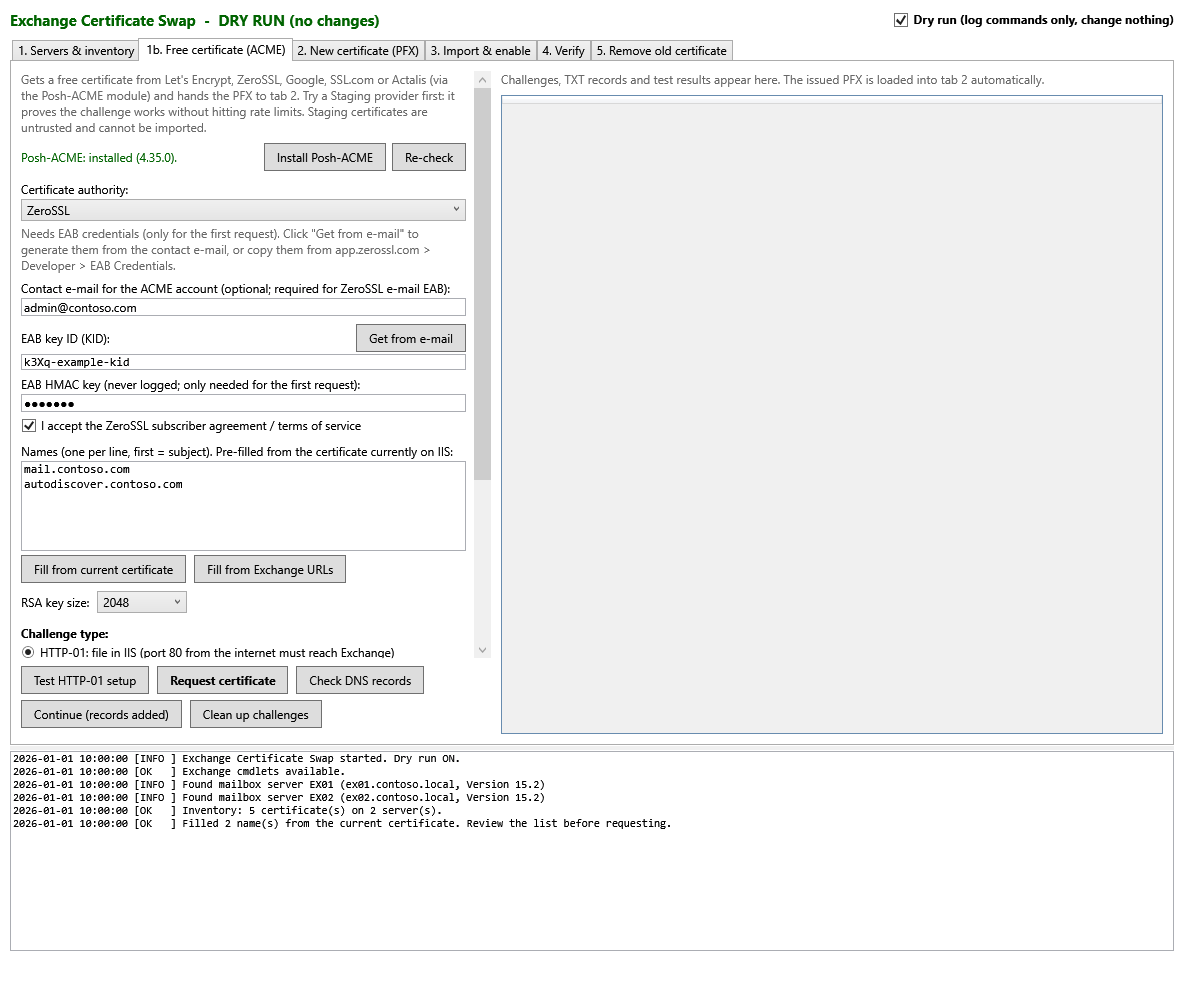
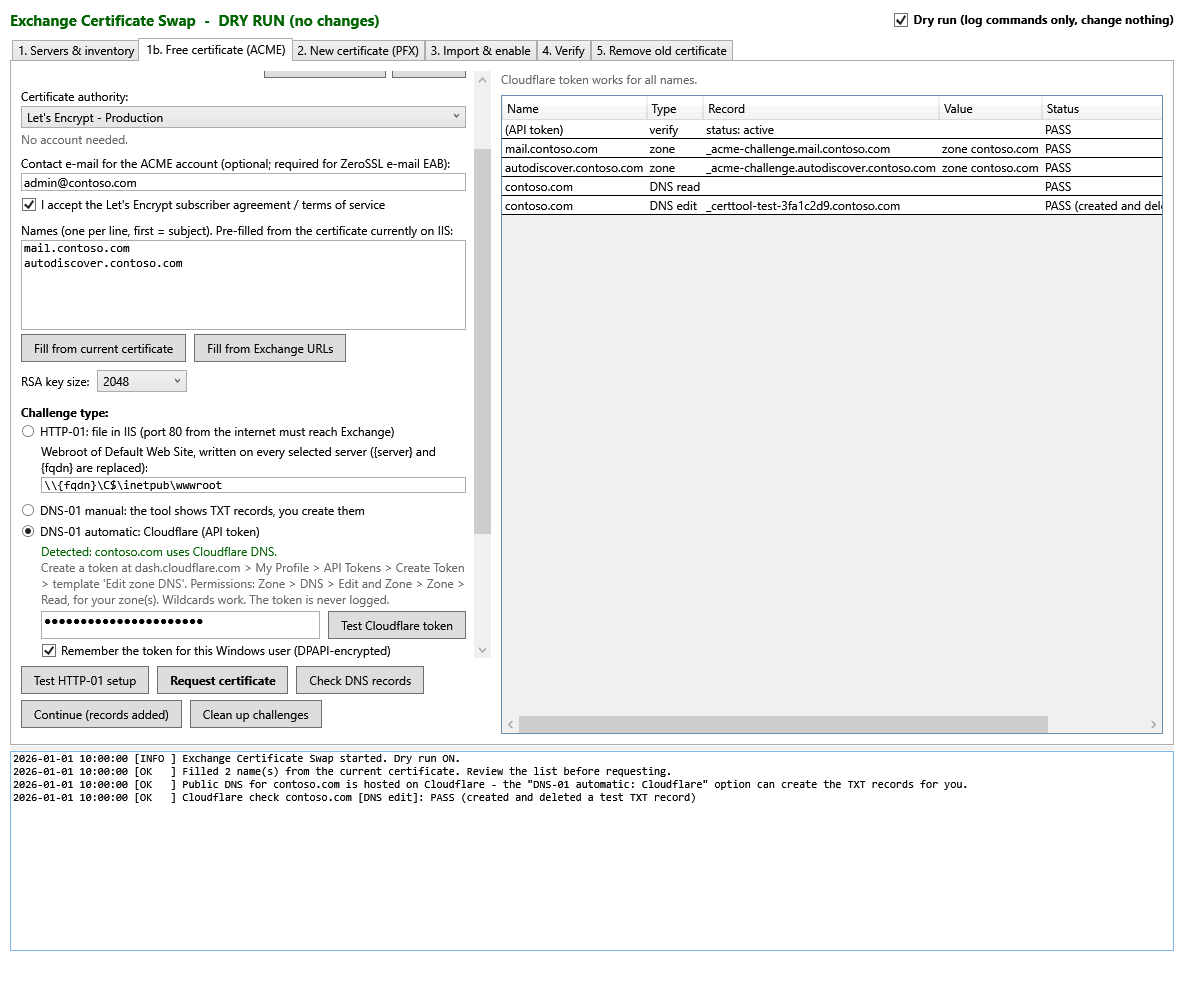
Add built-in Cloudflare DNS-01: API token test (zone/read/write), pre-flight check, DPAPI-remembered token, Cloudflare DNS detection

diff --git a/README.md b/README.md
@@ -9,7 +9,8 @@ A single-file PowerShell **WPF GUI** for replacing the public IIS/SMTP certifica
 - **Free certificates (optional)**: requests a certificate from **Let's Encrypt, ZeroSSL, Google Trust Services, SSL.com or Actalis** using the [Posh-ACME](https://poshac.me) module, and passes the resulting PFX straight to validation. Proof of domain ownership, chosen per request:
   - **HTTP-01**: the tool writes the challenge file into IIS on **every** selected server, so it works behind a load balancer. It checks that each server serves the file before the CA is asked to validate.
   - **DNS-01 manual**: the tool shows the `_acme-challenge` TXT records to create, then checks public DNS before continuing. Supports wildcards.
-  - **DNS-01 automatic**: uses any of Posh-ACME's ~90 DNS provider plugins (Cloudflare, Route 53, Azure DNS, GoDaddy and more).
+  - **DNS-01 automatic via Cloudflare**: built-in option for domains hosted on Cloudflare DNS. You paste a scoped API token, and the tool tests it, creates and removes the TXT records itself, and can remember the token, encrypted for your Windows user. It also detects when your names are on Cloudflare DNS.
+  - **DNS-01 automatic via other DNS hosts**: uses any of Posh-ACME's ~90 DNS provider plugins (Route 53, Azure DNS, GoDaddy and more).
 - **Inventory**: lists every Exchange certificate on all selected mailbox servers and marks the **Auth (OAuth)** and **internal transport** certificates.
 - **Validation before changes (read-only)**:
   - the PFX contains a private key, is in its validity period and has the Server Authentication EKU
@@ -102,10 +103,32 @@ All of these issue publicly trusted 90-day domain-validated certificates, which 
    |---|---|---|
    | **HTTP-01** | Port 80 for your mail names reaches the Exchange servers (directly or through a load balancer) | Click **Test HTTP-01 setup** first. It writes a test file to each server's webroot (default `\\{fqdn}\C$\inetpub\wwwroot`), requests it with the certificate name as Host header, and reports redirects, `Require SSL` and 404 errors. A `web.config` in `/.well-known/acme-challenge/` turns off HTTP redirects for that folder only. No wildcards. |
    | **DNS-01 manual** | Port 80 is closed, or you need a wildcard | Click **Request certificate**. Create the TXT records shown, click **Check DNS records** until all are visible, then click **Continue (records added)**. |
-   | **DNS-01 automatic** | Your DNS host has an API | Pick a plugin, click **Show parameters**, and enter the arguments as `Name=Value` lines. Put `secure:` before secrets, for example `CFToken=secure:xxxx`. Secrets are never written to the log. |
+   | **DNS-01 automatic: Cloudflare** | Your public DNS is on Cloudflare | See [Cloudflare DNS](#cloudflare-dns) below. Works with wildcards and with port 80 closed. |
+   | **DNS-01 automatic: other provider** | Your DNS host has an API | Pick a plugin, click **Show parameters**, and enter the arguments as `Name=Value` lines. Put `secure:` before secrets, for example `CFToken=secure:xxxx`. Secrets are never written to the log. |
 
 6. Click **Request certificate**, with Dry run unticked. When the certificate is issued, the tool removes the challenge files or records and opens tab 2 with the PFX already validated. Then continue with tab 3 as usual.
 7. When it works on Staging, switch to a production CA and request again.
+
+### Cloudflare DNS
+
+When your public DNS is hosted on Cloudflare, the tool creates and deletes the `_acme-challenge` TXT records through the Cloudflare API. You don't need to open port 80, and wildcards work. If the names on the certificate resolve to Cloudflare nameservers, the tab shows **"Detected: … uses Cloudflare DNS"**.
+
+1. **Create an API token.** Go to *dash.cloudflare.com → My Profile → API Tokens → Create Token* and use the **Edit zone DNS** template. It needs these permissions:
+   - **Zone → DNS → Edit**
+   - **Zone → Zone → Read**
+
+   Under *Zone Resources*, choose your zone, or *All zones* if the certificate covers several. Don't use the Global API Key.
+2. Select **DNS-01 automatic: Cloudflare (API token)** and paste the token. Typing a token selects this option automatically.
+3. Click **Test Cloudflare token**. It checks:
+   - that the token is active (for account-owned tokens this check shows INFO instead, which is expected);
+   - that each name maps to a Cloudflare zone, using the deepest matching zone, so delegated sub-zones work;
+   - that it can read DNS records;
+   - **with Dry run off**, that it can write, by creating and immediately deleting one `_certtool-test-….<zone>` TXT record.
+4. Click **Request certificate**. The same check runs again before ordering, so a bad token stops the request before the CA is contacted.
+
+The token is never written to the log. If you tick **Remember the token**, it is stored in `%LOCALAPPDATA%\ExchangeCertTool\cloudflare-token.dpapi`, encrypted with Windows DPAPI. Only the same Windows user on the same server can decrypt it, and it is loaded again the next time the tool starts, which makes renewals quicker. Untick the box and run the test again to delete the saved token.
+
+Proxied (orange-cloud) records don't matter, because DNS-01 only uses TXT records.
 
 Posh-ACME keeps the account, the orders and the issued files in `%LOCALAPPDATA%\Posh-ACME` for the user who ran the tool. The log shows the PFX path. The PFX password is stored with the order: `(Get-PAOrder <name>).PfxPass`.
 
